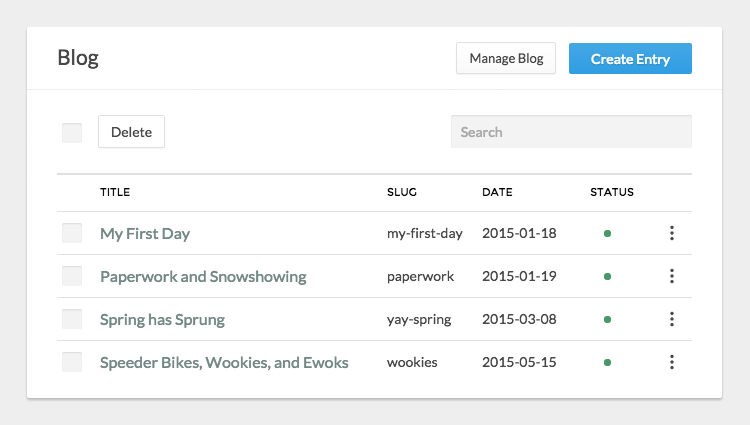
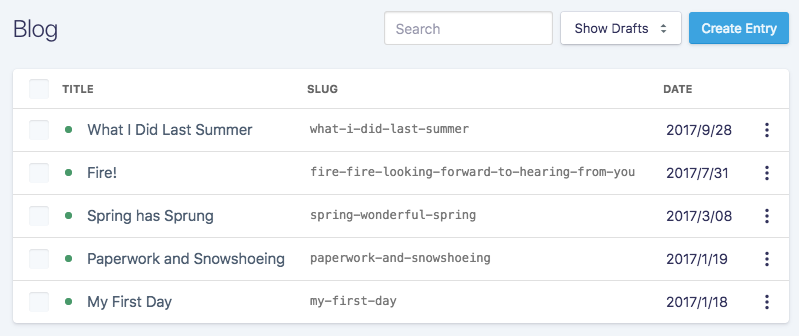
Info about customizing columns. Update screenshot

diff --git a/content/collections/docs/control-panel.md b/content/collections/docs/control-panel.md
@@ -78,3 +78,37 @@ Statamic will automatically load `site/helpers/cp/override.css` if it exists. Yo
 ## Adding custom JavaScript {#adding-custom-javascript}
 
 Statamic will automatically load `site/helpers/cp/scripts.js` if it exists. This could be a good place to add things like custom field conditions.
+
+## Customizing Listing Columns
+
+By default when listing entries and taxonomy terms, Statamic will give you a set of sensible default columns like title, slug, and date.
+You are free to customize these.
+
+![Control Panel Collection](/assets/img/screenshots/cp-collection.png)
+
+You may add a `columns` array to a collection's `folder.yaml` or a taxonomy's `taxonomyname.yaml` file. This array may contain a list of fields to display:
+
+``` .language-yaml
+columns:
+  - title
+  - slug
+```
+
+You may also use a nested array to have finer-grained control over each column.
+
+``` .language-yaml
+columns:
+  - title
+  - value: slug         # The field name used for the values. The only required key.
+    extra: true         # Extra fields will become hidden on mobile to save space.
+    width: 25           # The width, as a percent.
+    header: "The Slug"  # The header text if the field name isn't quite what you need.
+```
+
+Finally, you may use a dot-notated field to display a value through a relationship. For example, if you have a `related_post` field, it would normally just show the ID. You can use `related_post.title` to show the `title` of the related post.
+
+``` .language-yaml
+columns:
+  - title
+  - related_post.title
+```

diff --git a/content/collections/docs/collections.md b/content/collections/docs/collections.md
@@ -38,6 +38,8 @@ Mounted Collections show up in the Page Tree of the Control Panel as an easy way
 
 ![Control Panel Collection](/assets/img/screenshots/cp-collection.png)
 
+> You may customize the columns in this listing. [Find out how](/control-panel#customizing-listing-columns)
+
 ## Collection-Level Defaults
 
 If you'd like your Entries to inherit some default data, such as a default template, fieldset, or list of taxonomies, you can add that data to the Collections `folder.yaml` file. Each entry can **override** this data if you desire. Anything goes.
